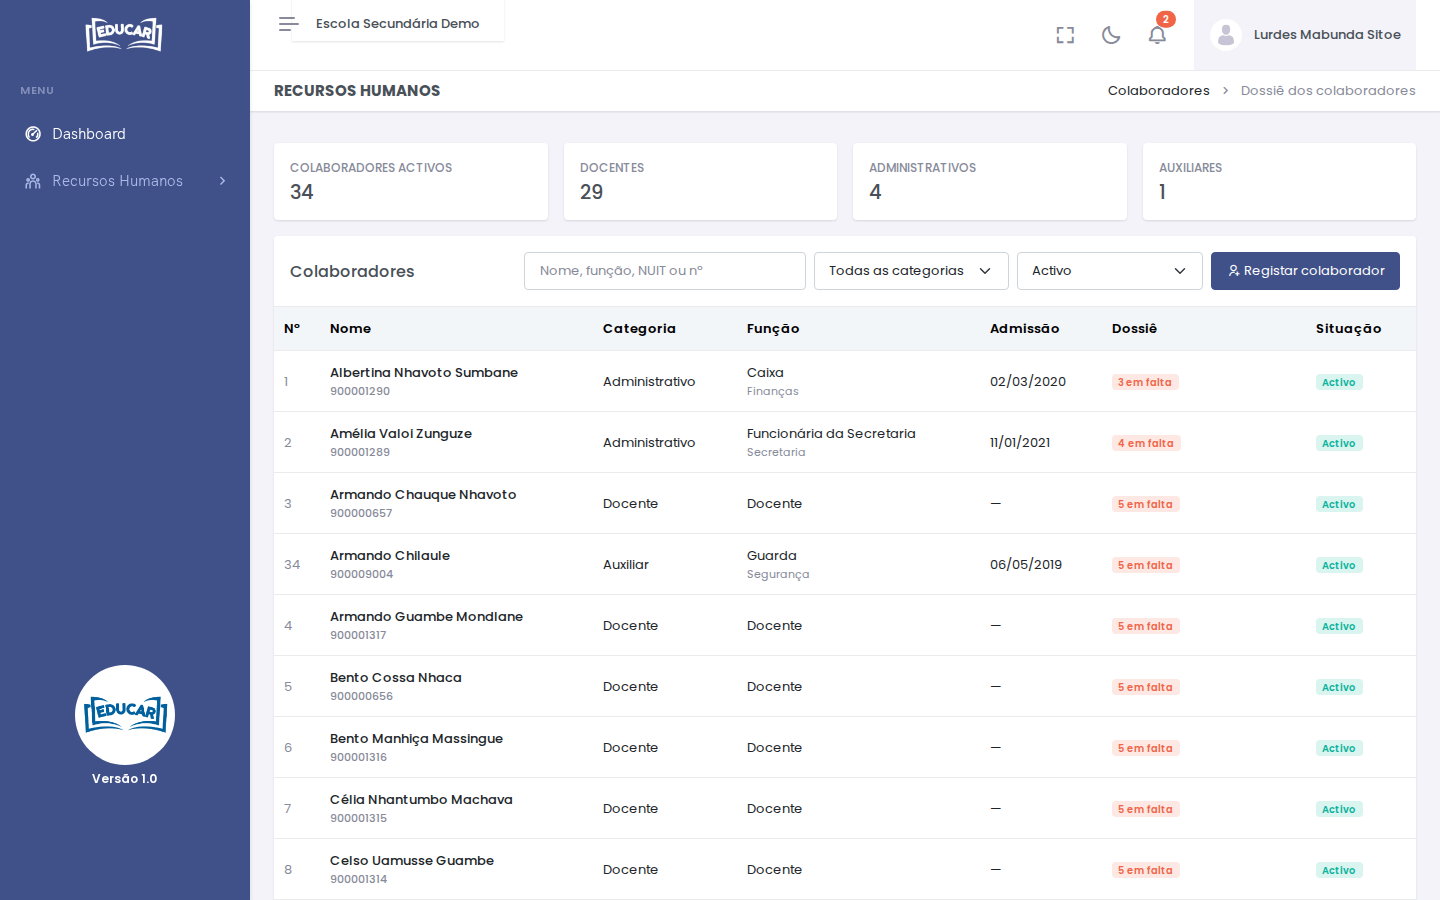
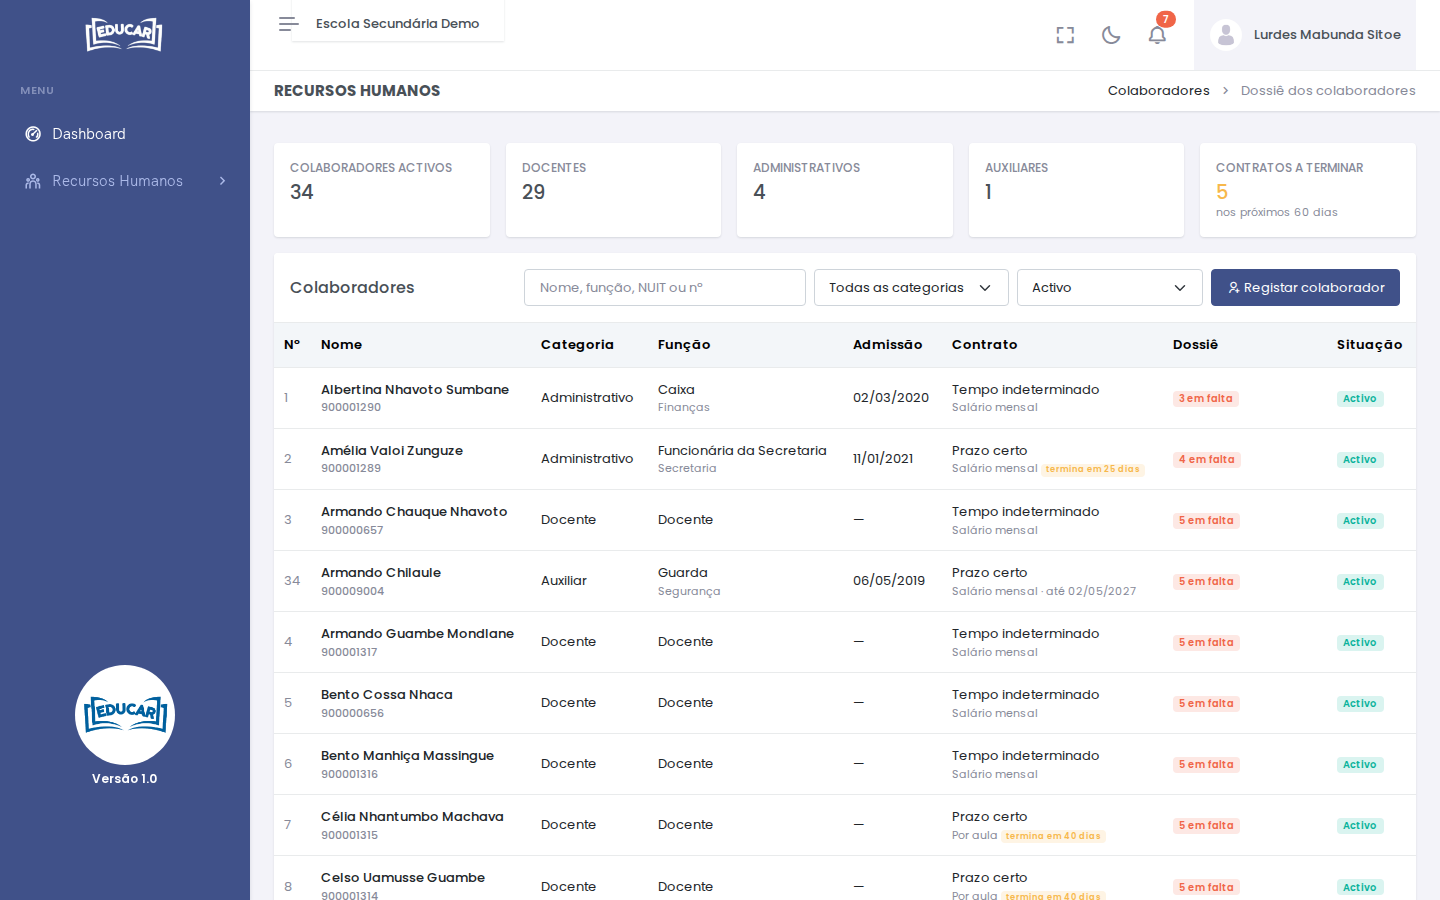
Human resources: contracts and HR settings

diff --git a/docs/menus/recursos-humanos/colaboradores.md b/docs/menus/recursos-humanos/colaboradores.md
@@ -5,7 +5,7 @@
 
 Todos os que trabalham na escola: administrativos, auxiliares e docentes, cada um com o seu dossiê (dados, contactos de emergência, dados bancários e documentos). Os docentes adicionados em [Docentes](docentes.md) passam a ser colaboradores sozinhos.
 
-![Os colaboradores activos, com o estado do dossiê](img/colaboradores.png)
+![Os colaboradores activos, com o contrato e o estado do dossiê](img/colaboradores.png)
 
 No topo, os totais dos colaboradores activos por categoria; clique num deles para filtrar. A lista mostra os activos: escolha outra situação, uma categoria ou escreva o nome, a função, o NUIT ou o número para procurar.
 
@@ -25,9 +25,31 @@ A pessoa tem de estar registada em [Pessoas](pessoas.md).
 ![O dossiê de um colaborador: um documento caducado e outro a caducar](img/colaborador-documentos.png)
 
 - **Dados:** os dados pessoais (para os corrigir, use **Editar em Pessoas**) e os do colaborador: categoria, função, sector, admissão e observações. Em **Situação**, suspenda (com o motivo), dê como **Cessado** (com a data de saída e o motivo) ou volte a pôr como activo.
+- **Contrato:** o contrato em vigor e o histórico (veja abaixo).
 - **Contactos de emergência:** quem avisar em caso de acidente ou doença, com o telefone.
 - **Dados bancários:** o banco e o número da conta e/ou o NIB (21 algarismos), ou a carteira móvel, para pagar o salário.
 - **Documentos:** o dossiê. Escolha o tipo, o número, as datas de emissão e de validade e o ficheiro (PDF, JPEG ou PNG, até 5 MB), e use **Juntar**. Clique no ficheiro para o abrir.
+
+## O contrato
+
+![Um contrato a prazo certo perto do fim, com o histórico](img/colaborador-contrato.png)
+
+Cada colaborador tem um contrato em vigor de cada vez. Sem contrato, a lista mostra **sem contrato**.
+
+1. No separador **Contrato**, escolha o **Tipo de contrato**: tempo indeterminado (efectivo), prazo certo ou prestação de serviços.
+2. Escolha o **Pagamento**:
+    - **Salário mensal**, com o salário base. É o dos administrativos, dos auxiliares e dos docentes efectivos; os docentes efectivos têm horas extra (veja [Definições de RH](definicoes-de-rh.md)).
+    - **Por aula**, só para docentes que não são efectivos: recebem por aula dada, pelo valor do perfil do nível de ensino e do grau (ou de um perfil escolhido aqui), sem horas extra.
+3. Indique o início e, no prazo certo, o fim. O fim do período experimental e a carga horária semanal são opcionais.
+4. **Reter o IRPS** vem marcado; desmarque nos prestadores de serviços que não têm retenção.
+5. Junte o contrato assinado (PDF, JPEG ou PNG) e use **Registar o contrato**.
+
+Um contrato já terminado, registado para o histórico, fica logo como terminado.
+
+- **Renovar:** indique o novo contrato. Começa no dia a seguir ao fim do anterior (ou na data indicada) e o anterior fica **Renovado**.
+- **Rescindir:** a data e o motivo. Para registar a saída do colaborador, mude também a **Situação** em **Dados**.
+
+O gestor de recursos humanos e o director recebem um aviso 60, 30 e 15 dias antes do fim de um contrato a prazo. Se o prazo passar sem renovação, o contrato fica **Terminado** e chega outro aviso.
 
 ## Documentos a caducar
 

diff --git a/docs/menus/recursos-humanos/definicoes-de-rh.md b/docs/menus/recursos-humanos/definicoes-de-rh.md
@@ -1,0 +1,24 @@
+# Definições de RH
+
+**Menu:** Recursos Humanos › Definições de RH
+**Quem vê:** Gestor de recursos humanos, Director da escola
+
+Como a escola paga os docentes: as horas extra dos efectivos e o valor por aula dos que não são efectivos.
+
+![As horas extra e os perfis de valor por aula](img/definicoes-de-rh.png)
+
+## Horas extra dos docentes efectivos
+
+O docente efectivo (contrato por tempo indeterminado, com salário mensal) recebe horas extra quando dá mais horas no mês do que as indicadas em **Horas extra a partir de (horas por mês)**. Cada hora a mais vale o **Valor da hora extra (MT)**. Use **Gravar**.
+
+## Perfis de valor por aula
+
+O docente que não é efectivo recebe por aula dada. O valor vem de um perfil (A, B, C…) que a escola define:
+
+- **Por nível de ensino:** o nível é o da classe da turma onde a aula é dada: Ensino Primário (1ª–6ª), Secundário 1º ciclo (7ª–9ª) e 2º ciclo (10ª–12ª).
+- **Por grau académico:** o grau do docente, registado em [Docentes](docentes.md).
+- **Pelos dois:** cada combinação de nível e grau tem o seu valor.
+
+Escolha a base em **Perfis de valor por aula** e use **Gravar**. Depois, em cada perfil, indique o código, o nome, o nível e/ou o grau e o valor por aula, e use **Juntar perfil**. Cada combinação só pode ter um perfil activo. Um perfil que deixa de se usar desliga-se (o interruptor) e **Gravar**.
+
+No [contrato](colaboradores.md#o-contrato) de um docente pago por aula, o perfil é escolhido sozinho pelo nível e pelo grau; escolha um perfil só para um acordo diferente.

diff --git a/docs/perfis/gestor-de-recursos-humanos.md b/docs/perfis/gestor-de-recursos-humanos.md
@@ -2,12 +2,13 @@
 
 **Perfil:** Gestor de recursos humanos. A ELIXIR dá este perfil à pessoa que a escola indicar.
 
-Regista os colaboradores da escola (administrativos, auxiliares e docentes) e mantém o dossiê de cada um: contactos de emergência, dados bancários e documentos, com os avisos dos que caducam. Regista também as pessoas e os docentes. O director da escola pode fazer o mesmo.
+Regista os colaboradores da escola (administrativos, auxiliares e docentes) e os seus contratos, e mantém o dossiê de cada um: contactos de emergência, dados bancários e documentos, com os avisos dos documentos e dos contratos que terminam. Define o valor por aula e as horas extra dos docentes. Regista também as pessoas e os docentes. O director da escola pode fazer o mesmo.
 
 ## Os seus ecrãs
 
 | Menu | Ecrã |
 |---|---|
 | Recursos Humanos | [Colaboradores](../menus/recursos-humanos/colaboradores.md) |
+| Recursos Humanos | [Definições de RH](../menus/recursos-humanos/definicoes-de-rh.md) |
 | Recursos Humanos | [Pessoas](../menus/recursos-humanos/pessoas.md) |
 | Recursos Humanos | [Docentes](../menus/recursos-humanos/docentes.md) |

diff --git a/docs/perfis/direccao.md b/docs/perfis/direccao.md
@@ -19,6 +19,7 @@ Organiza o ano lectivo, as turmas, as pautas e os exames, e acompanha os relató
 | Configurações | [Professores por Turma](../menus/configuracoes/professores-por-turma.md) |
 | Plano Curricular | [Grade Curricular](../menus/plano-curricular/grade-curricular.md) |
 | Recursos Humanos | [Colaboradores](../menus/recursos-humanos/colaboradores.md) |
+| Recursos Humanos | [Definições de RH](../menus/recursos-humanos/definicoes-de-rh.md) |
 | Recursos Humanos | [Níveis académicos](../menus/recursos-humanos/niveis-academicos.md) |
 | Recursos Humanos | [Áreas de Formação](../menus/recursos-humanos/areas-de-formacao.md) |
 | Recursos Humanos | [Pessoas](../menus/recursos-humanos/pessoas.md) |

diff --git a/docs/menus/recursos-humanos/index.md b/docs/menus/recursos-humanos/index.md
@@ -3,6 +3,7 @@
 | Ecrã | Quem o vê |
 |---|---|
 | [Colaboradores](colaboradores.md) | Gestor de recursos humanos, Director da escola |
+| [Definições de RH](definicoes-de-rh.md) | Gestor de recursos humanos, Director da escola |
 | [Níveis académicos](niveis-academicos.md) | Director da escola, Director pedagógico |
 | [Áreas de Formação](areas-de-formacao.md) | Director da escola, Director pedagógico |
 | [Pessoas](pessoas.md) | Director da escola, Director pedagógico, Gestor de recursos humanos |
